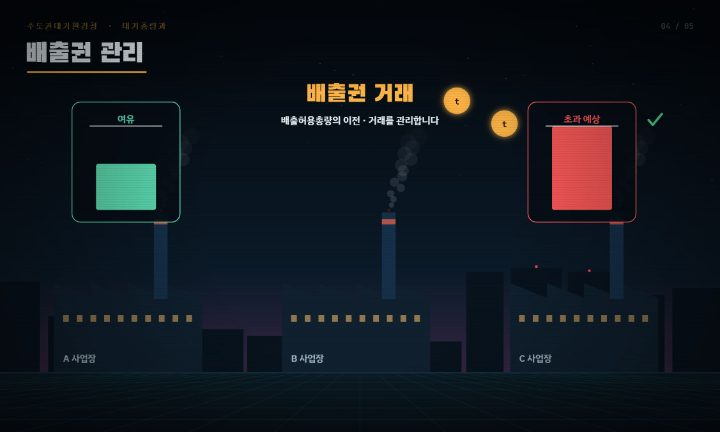
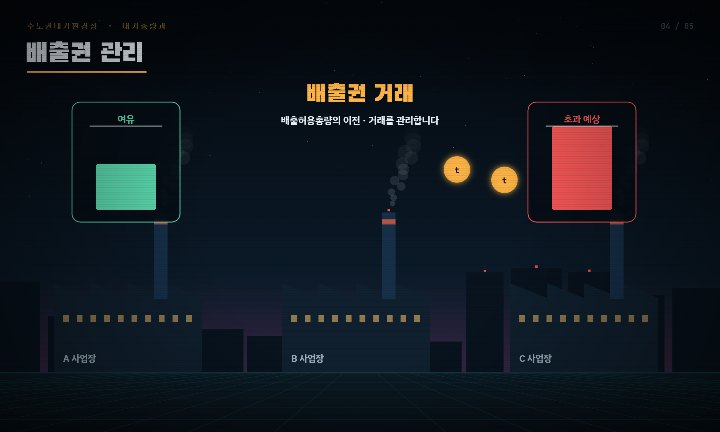
Prevent text overlap in quota scenes

diff --git a/assets/site-v3.js b/assets/site-v3.js
@@ -9,13 +9,13 @@ function select(key,force=false){const topic=byTopic[key]||byTopic['sift-ms'],de
  tabs.forEach(tab=>{const active=tab.dataset.target===dept.id;tab.setAttribute('aria-selected',String(active));tab.tabIndex=active?0:-1});$('department-panel').setAttribute('aria-labelledby','tab-'+dept.id);$('topic-heading').textContent=dept.dept+' 업무 골라보기';
  if($('topic-list').dataset.dept!==dept.id){$('topic-list').dataset.dept=dept.id;$('topic-list').replaceChildren(...dept.topics.map((id,i)=>{const item=byTopic[id],b=document.createElement('button');b.className='topic';b.type='button';b.dataset.topic=id;b.innerHTML=`<span class="topic-no">0${i+1} / 30s</span><strong>${item.title}</strong><span class="topic-desc">${item.desc}</span><span class="topic-action">영상 보기 <span aria-hidden="true">↗</span></span>`;b.onclick=()=>{if(selected!==id)location.hash=id};return b}))}
  document.querySelectorAll('.topic').forEach(b=>b.setAttribute('aria-pressed',String(b.dataset.topic===topic.id)));
- frame.title=topic.title+' 30초 애니메이션';for(const id of['open-lesson','fallback-link'])$(id).href=topic.file+'?v=23';
- if(changed||force){loading();frame.src=topic.file+'?embed=1&v=23'}
+ frame.title=topic.title+' 30초 애니메이션';for(const id of['open-lesson','fallback-link'])$(id).href=topic.file+'?v=24';
+ if(changed||force){loading();frame.src=topic.file+'?embed=1&v=24'}
 }
 tabs.forEach((tab,i)=>{tab.onclick=()=>{location.hash=byDept[tab.dataset.target].topics[0]};tab.onkeydown=e=>{let next;if(e.key==='ArrowRight'||e.key==='ArrowLeft')next=(i+(e.key==='ArrowRight'?1:-1)+tabs.length)%tabs.length;else if(e.key==='Home')next=0;else if(e.key==='End')next=tabs.length-1;else return;e.preventDefault();tabs[next].focus();tabs[next].click()}});
 window.addEventListener('hashchange',()=>{if(location.hash!=='#lessons')select(resolve())});
 window.addEventListener('message',event=>{if(event.origin!==location.origin||event.source!==frame.contentWindow||event.data?.type!=='mamo-lesson-size')return;const h=Number(event.data.height);if(!Number.isFinite(h)||h<100||h>6000)return;frame.style.height=Math.ceil(h)+'px';clearTimeout(timer);$('loading').hidden=true;$('load-error').hidden=true;frame.hidden=false;$('viewer').setAttribute('aria-busy','false')});
-frame.addEventListener('load',()=>{const doc=frame.contentDocument;if(!doc||doc.getElementById('compact-player-style'))return;const link=doc.createElement('link');link.id='compact-player-style';link.rel='stylesheet';link.href='assets/compact-player.css?v=23';doc.head.append(link);const friendly=doc.createElement('link');friendly.rel='stylesheet';friendly.href='assets/friendly-player.css?v=23';doc.head.append(friendly);const reading=doc.createElement("link");reading.rel="stylesheet";reading.href="assets/readability.css?v=23";doc.head.append(reading)});
+frame.addEventListener('load',()=>{const doc=frame.contentDocument;if(!doc||doc.getElementById('compact-player-style'))return;const link=doc.createElement('link');link.id='compact-player-style';link.rel='stylesheet';link.href='assets/compact-player.css?v=24';doc.head.append(link);const friendly=doc.createElement('link');friendly.rel='stylesheet';friendly.href='assets/friendly-player.css?v=24';doc.head.append(friendly);const reading=doc.createElement("link");reading.rel="stylesheet";reading.href="assets/readability.css?v=24";doc.head.append(reading)});
 $('retry').onclick=()=>select(selected,true);select(resolve(),true);
 
 // 음성 해설: 영상(iframe)이 장면마다 보내는 음성을 이 창에서 재생한다.
@@ -27,4 +27,4 @@ window.addEventListener('message',e=>{if(e.origin!==location.origin||e.source!==
 frame.addEventListener('load',()=>voice.pause());window.addEventListener('hashchange',()=>voice.pause())})();
 
 // 읽기 모드 링크를 지금 보고 있는 업무로 맞춘다.
-(()=>{const a=document.getElementById('read-mode');if(!a)return;const sync=()=>{const id=location.hash.slice(1);a.href='m.html?v=23'+(id&&id!=='lessons'?'#'+(id==='emissions'?'integrated':id):'')};window.addEventListener('hashchange',sync);sync()})();
+(()=>{const a=document.getElementById('read-mode');if(!a)return;const sync=()=>{const id=location.hash.slice(1);a.href='m.html?v=24'+(id&&id!=='lessons'?'#'+(id==='emissions'?'integrated':id):'')};window.addEventListener('hashchange',sync);sync()})();

diff --git a/m.html b/m.html
@@ -88,12 +88,12 @@ button:focus-visible,a:focus-visible{outline:3px solid #3267a2;outline-offset:3p
   </section>
   <section class="film" aria-label="선택한 업무의 30초 영상">
     <div class="filmhead"><strong id="filmTitle">30초 영상</strong><a id="openVideo" href="sift-ms.html" target="_blank" rel="noopener">전체 화면으로 보기 ↗</a></div>
-    <iframe id="film" src="sift-ms.html?embed=1&amp;v=23" title="기획과 30초 영상" loading="eager"></iframe>
+    <iframe id="film" src="sift-ms.html?embed=1&amp;v=24" title="기획과 30초 영상" loading="eager"></iframe>
   </section>
   <nav class="more" aria-label="다음 업무" id="more"></nav>
   <p class="note">그림 속 지도·사업장·농도·측정값은 이해를 돕기 위한 예시입니다. 음성은 AI 합성 음성입니다.<br><a id="source" href="https://mcee.go.kr/mamo/web/index.do?menuId=656" target="_blank" rel="noopener">선택한 업무의 공식 자료 ↗</a></p>
 </main>
-<script src="assets/catalog.js?v=23"></script>
+<script src="assets/catalog.js?v=24"></script>
 
 <script>
 (() => {
@@ -112,11 +112,11 @@ function render(){let id=location.hash.slice(1);if(id==='inventory')id='mobile-a
  document.querySelectorAll('.dept').forEach(b=>{const on=b.dataset.dept===d.id;b.setAttribute('aria-selected',String(on));b.tabIndex=on?0:-1});
  $('chips').replaceChildren(...d.topics.map(tid=>{const b=document.createElement('button');b.className='chip';b.type='button';b.textContent=plain(byTopic[tid].title);b.setAttribute('aria-pressed',String(tid===id));b.onclick=()=>go(tid);return b}));
  $('deptName').textContent=d.dept;$('title').textContent=plain(t.title);$('desc').textContent=t.desc;$('source').href=t.source;
- $('filmTitle').textContent='30초 · '+plain(t.title);$('openVideo').href=t.file+'?v=23';frame.title=plain(t.title)+' 30초 영상';frame.src=t.file+'?embed=1&v=23';frame.style.height='710px';
+ $('filmTitle').textContent='30초 · '+plain(t.title);$('openVideo').href=t.file+'?v=24';frame.title=plain(t.title)+' 30초 영상';frame.src=t.file+'?embed=1&v=24';frame.style.height='710px';
  const nx=order[(order.indexOf(id)+1)%order.length],nt=byTopic[nx];$('more').replaceChildren();const a=document.createElement('a');a.className='next';a.href='#'+nx;a.innerHTML=`<small>다음 업무 · ${byDept[nt.dept].dept}</small><b></b>`;a.querySelector('b').textContent=plain(nt.title)+' →';$('more').append(a);
  window.scrollTo(0,0)
 }
-frame.addEventListener('load',()=>{const doc=frame.contentDocument;if(!doc)return;for(const name of ['compact-player.css','friendly-player.css','readability.css']){const link=doc.createElement('link');link.rel='stylesheet';link.href='assets/'+name+'?v=23';doc.head.append(link)}});
+frame.addEventListener('load',()=>{const doc=frame.contentDocument;if(!doc)return;for(const name of ['compact-player.css','friendly-player.css','readability.css']){const link=doc.createElement('link');link.rel='stylesheet';link.href='assets/'+name+'?v=24';doc.head.append(link)}});
 window.addEventListener('message',e=>{if(e.origin!==location.origin||e.source!==frame.contentWindow||e.data?.type!=='mamo-lesson-size')return;const h=Number(e.data.height);if(Number.isFinite(h)&&h>100&&h<6000)frame.style.height=Math.ceil(h)+'px'});
 window.addEventListener('hashchange',render);render();
 })();

diff --git a/quota.html b/quota.html
@@ -322,7 +322,7 @@ CINE.story({scenes: [
     row(now, .2);
     const L = [210, 970]; [[L[0], '여유', P.mint, .55], [L[1], '초과 예상', P.red, 1.08]].forEach(([x, s, col, r]) => { box(x - 90, 170, 180, 200, 'rgba(6,13,22,.9)', 14, col); txt(s, x, 204, 16, col, 'center', 700);
       box(x - 50, 350 - 140 * Math.min(r, 1), 100, 140 * Math.min(r, 1), col, 4); line(x - 60, 210, x + 60, 210, P.text, 1.5) });
-    const k = eio((u - .8) / 1.6); for (let j = 0; j < 3; j++) { const q = clamp(k - j * .12), x = lerp(260, 920, q), y = 250 - Math.sin(q * Math.PI) * 120; if (q > 0 && q < 1) glow(P.amber, 20, () => { circ(x, y, 22, 'rgba(255,181,71,.9)'); mono('t', x, y + 6, 14, '#1a1004', 'center', 700) }) }
+    const k = eio((u - .8) / 1.6); for (let j = 0; j < 3; j++) { const q = clamp(k - j * .12), x = lerp(260, 920, q), y = 320 - Math.sin(q * Math.PI) * 55; if (q > 0 && q < 1) glow(P.amber, 20, () => { circ(x, y, 22, 'rgba(255,181,71,.9)'); mono('t', x, y + 6, 14, '#1a1004', 'center', 700) }) }
     alpha(eout((u - 1) / .4), () => { disp('배출권 거래', 600, 170, 40, P.amber, 'center'); txt('배출허용총량의 이전 · 거래를 관리합니다', 600, 206, 16, P.text, 'center', 600) });
     alpha(eout((u - 2.6) / .4), () => { tick(1090, 200, 1, P.green, 1) });
   },
@@ -332,7 +332,7 @@ CINE.story({scenes: [
     alpha(eout((u - .3) / .5), () => { box(520, 360, 220, 150, 'rgba(6,13,22,.92)', 14, P.mint); txt('저녹스버너', 630, 400, 20, P.mint, 'center', 700);
       for (let j = 0; j < 5; j++) { const h = 40 + 20 * Math.sin(now * 10 + j); glow(lerp(0, 1, k) > .5 ? A : P.amber, 14, () => poly([[570 + j * 22, 490], [580 + j * 22, 490 - h * lerp(1, .6, k)], [590 + j * 22, 490]], k > .5 ? 'rgba(61,224,255,.8)' : 'rgba(255,181,71,.8)')) } });
     panel(800, 150, 360, 300, '질소산화물 배출', '개선 전 → 후 · 예시', P.mint);
-    box(850, 420 - 220, 90, 220, '#27425a', 6); glow(P.mint, 14, () => box(1000, 420 - 220 * lerp(1, .45, k), 90, 220 * lerp(1, .45, k), P.mint, 6)); txt('개선 전', 895, 440, 14, P.muted, 'center', 600); txt('개선 후', 1045, 440, 14, P.mint, 'center', 600);
+    box(850, 420 - 155, 90, 155, '#27425a', 6); glow(P.mint, 14, () => box(1000, 420 - 155 * lerp(1, .45, k), 90, 155 * lerp(1, .45, k), P.mint, 6)); txt('개선 전', 895, 440, 14, P.muted, 'center', 600); txt('개선 후', 1045, 440, 14, P.mint, 'center', 600);
     alpha(eout((u - 2.4) / .4), () => { box(520, 540, 640, 56, 'rgba(95,224,181,.1)', 12, P.mint); txt('시설 개선과 기술 지원으로 저감을 돕습니다', 840, 576, 18, P.text, 'center', 600) });
   }
 ]});

diff --git a/tools/cine/topics/quota.js b/tools/cine/topics/quota.js
@@ -40,7 +40,7 @@ CINE.story({scenes: [
     row(now, .2);
     const L = [210, 970]; [[L[0], '여유', P.mint, .55], [L[1], '초과 예상', P.red, 1.08]].forEach(([x, s, col, r]) => { box(x - 90, 170, 180, 200, 'rgba(6,13,22,.9)', 14, col); txt(s, x, 204, 16, col, 'center', 700);
       box(x - 50, 350 - 140 * Math.min(r, 1), 100, 140 * Math.min(r, 1), col, 4); line(x - 60, 210, x + 60, 210, P.text, 1.5) });
-    const k = eio((u - .8) / 1.6); for (let j = 0; j < 3; j++) { const q = clamp(k - j * .12), x = lerp(260, 920, q), y = 250 - Math.sin(q * Math.PI) * 120; if (q > 0 && q < 1) glow(P.amber, 20, () => { circ(x, y, 22, 'rgba(255,181,71,.9)'); mono('t', x, y + 6, 14, '#1a1004', 'center', 700) }) }
+    const k = eio((u - .8) / 1.6); for (let j = 0; j < 3; j++) { const q = clamp(k - j * .12), x = lerp(260, 920, q), y = 320 - Math.sin(q * Math.PI) * 55; if (q > 0 && q < 1) glow(P.amber, 20, () => { circ(x, y, 22, 'rgba(255,181,71,.9)'); mono('t', x, y + 6, 14, '#1a1004', 'center', 700) }) }
     alpha(eout((u - 1) / .4), () => { disp('배출권 거래', 600, 170, 40, P.amber, 'center'); txt('배출허용총량의 이전 · 거래를 관리합니다', 600, 206, 16, P.text, 'center', 600) });
     alpha(eout((u - 2.6) / .4), () => { tick(1090, 200, 1, P.green, 1) });
   },
@@ -50,7 +50,7 @@ CINE.story({scenes: [
     alpha(eout((u - .3) / .5), () => { box(520, 360, 220, 150, 'rgba(6,13,22,.92)', 14, P.mint); txt('저녹스버너', 630, 400, 20, P.mint, 'center', 700);
       for (let j = 0; j < 5; j++) { const h = 40 + 20 * Math.sin(now * 10 + j); glow(lerp(0, 1, k) > .5 ? A : P.amber, 14, () => poly([[570 + j * 22, 490], [580 + j * 22, 490 - h * lerp(1, .6, k)], [590 + j * 22, 490]], k > .5 ? 'rgba(61,224,255,.8)' : 'rgba(255,181,71,.8)')) } });
     panel(800, 150, 360, 300, '질소산화물 배출', '개선 전 → 후 · 예시', P.mint);
-    box(850, 420 - 220, 90, 220, '#27425a', 6); glow(P.mint, 14, () => box(1000, 420 - 220 * lerp(1, .45, k), 90, 220 * lerp(1, .45, k), P.mint, 6)); txt('개선 전', 895, 440, 14, P.muted, 'center', 600); txt('개선 후', 1045, 440, 14, P.mint, 'center', 600);
+    box(850, 420 - 155, 90, 155, '#27425a', 6); glow(P.mint, 14, () => box(1000, 420 - 155 * lerp(1, .45, k), 90, 155 * lerp(1, .45, k), P.mint, 6)); txt('개선 전', 895, 440, 14, P.muted, 'center', 600); txt('개선 후', 1045, 440, 14, P.mint, 'center', 600);
     alpha(eout((u - 2.4) / .4), () => { box(520, 540, 640, 56, 'rgba(95,224,181,.1)', 12, P.mint); txt('시설 개선과 기술 지원으로 저감을 돕습니다', 840, 576, 18, P.text, 'center', 600) });
   }
 ]});

diff --git a/index.html b/index.html
@@ -7,9 +7,9 @@
   <meta name="description" content="첨단감시장비 활용 대기배출원관리와 굴뚝 시료 채취·분석. 수도권대기환경청 4개 과의 대표 업무를 애니메이션으로 만나보세요.">
   <title>첨단감시장비 활용 대기배출원관리 | 수도권대기환경청</title>
   <link rel="icon" href="assets/favicon.svg" type="image/svg+xml">
-  <link rel="stylesheet" href="assets/site.css?v=23"><link rel="stylesheet" href="assets/topics.css?v=23">
-  <script src="assets/catalog.js?v=23" defer></script><script src="assets/site-v3.js?v=23" defer></script>
-<link rel="stylesheet" href="assets/compact.css?v=23"><link rel="stylesheet" href="assets/friendly.css?v=23">
+  <link rel="stylesheet" href="assets/site.css?v=24"><link rel="stylesheet" href="assets/topics.css?v=24">
+  <script src="assets/catalog.js?v=24" defer></script><script src="assets/site-v3.js?v=24" defer></script>
+<link rel="stylesheet" href="assets/compact.css?v=24"><link rel="stylesheet" href="assets/friendly.css?v=24">
 <!-- Link preview: static metadata for KakaoTalk and social crawlers -->
 <meta property="og:type" content="website">
 <meta property="og:locale" content="ko_KR">
@@ -34,7 +34,7 @@
   <div class="site">
     <header class="topbar">
       <a class="brand" href="#sift-ms" aria-label="수도권대기환경청 업무 소개 메인으로">수도권대기환경청 업무 소개</a>
-      <a class="read-mode" id="read-mode" href="m.html?v=23">휴대폰 영상 보기</a><div class="agency"><img src="assets/mamo-logo.png" width="192" height="60" alt="기후에너지환경부 수도권대기환경청"></div>
+      <a class="read-mode" id="read-mode" href="m.html?v=24">휴대폰 영상 보기</a><div class="agency"><img src="assets/mamo-logo.png" width="192" height="60" alt="기후에너지환경부 수도권대기환경청"></div>
     </header>
 
     <main>
